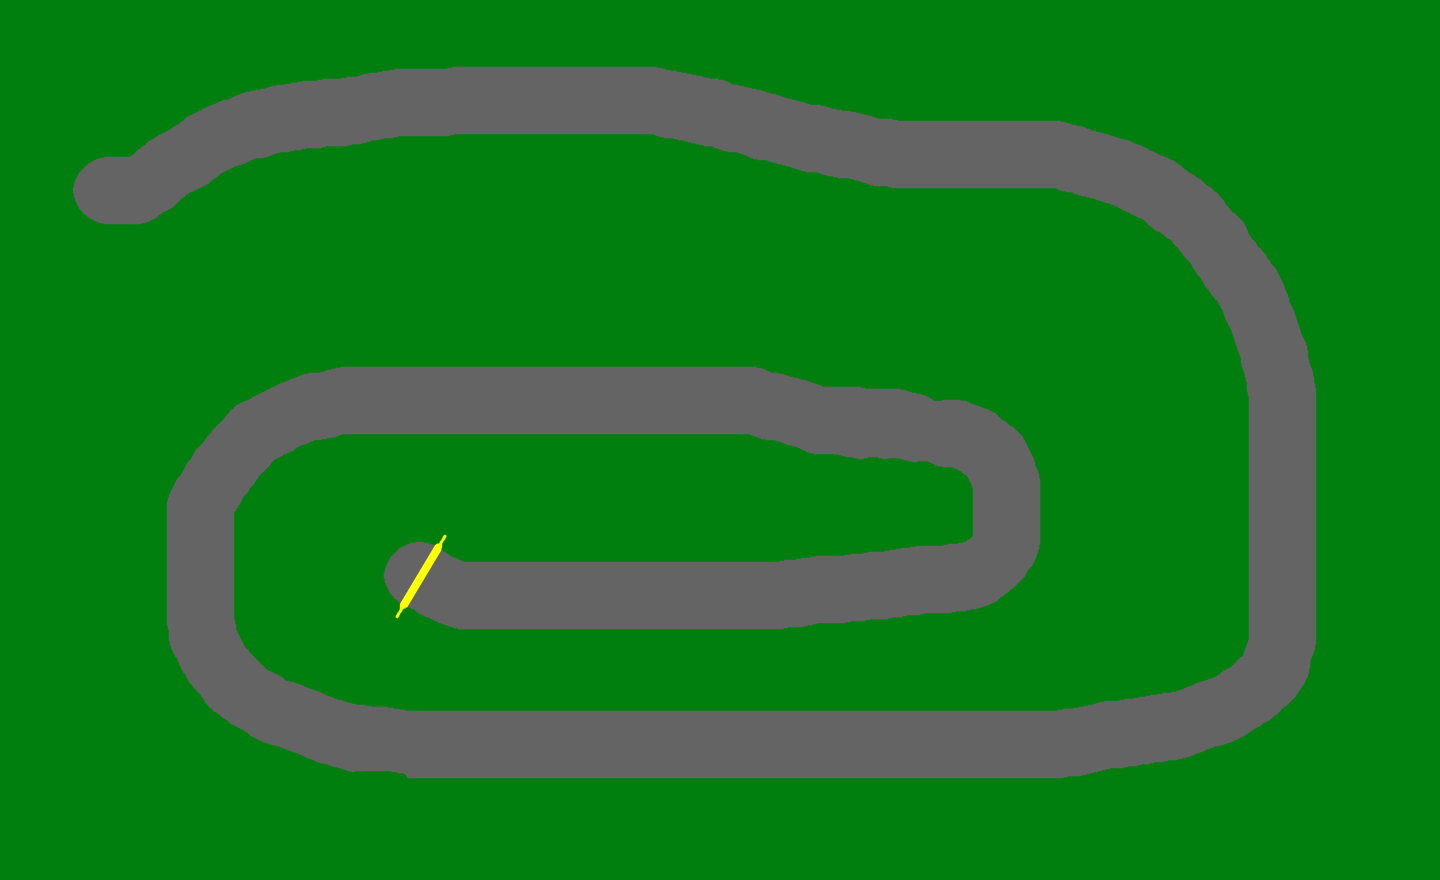
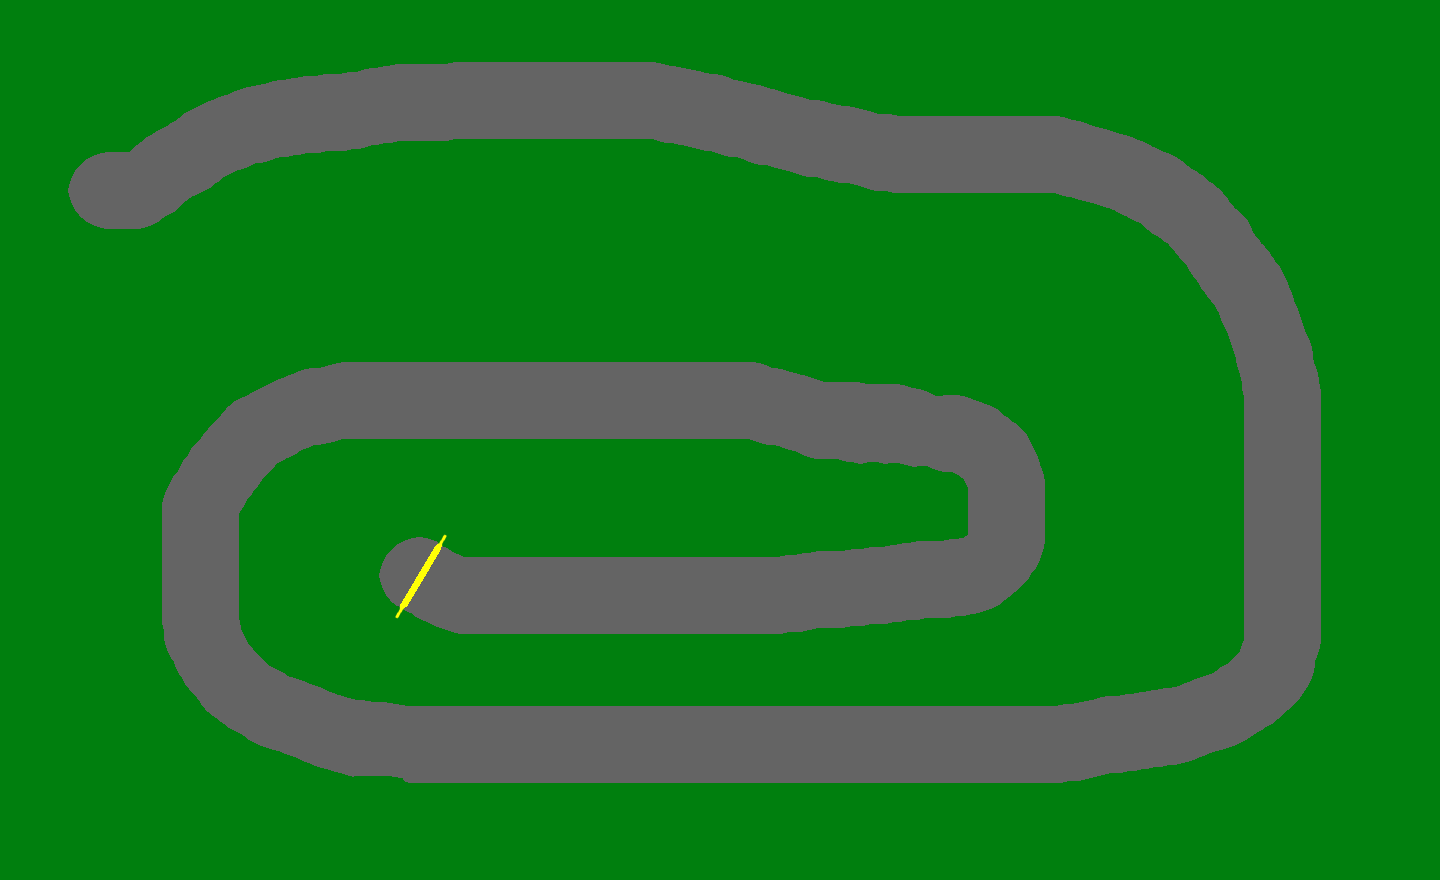
KI-Autos fuer CarRace: Variation, Kollisionen, Ueberholen, Aufholbonus
- ai.py: AIDriver mit Strassen-Fuehlern, zufaelliger Variation, Ueberholen und Kollisionsvermeidung (Fuehrender weicht weniger aus)
- car.py/main_myrace.py: Kollisionserkennung zwischen allen Autos, Umfaerbung der KI-Autos, Aufholbonus fuers Tempolimit
- track_1.png: Strasse um ca. 15 % verbreitert

diff --git a/CarRace/ai.py b/CarRace/ai.py
@@ -1,0 +1,170 @@
+"""Eine sehr einfache KI, die ein Auto steuert.
+
+Die KI "sieht" mit drei Fühlern (links, geradeaus, rechts) wie weit die Strasse vor dem Auto noch frei ist:
+- Lenken: zur Seite mit mehr freier Strasse.
+- Tempo: je weniger geradeaus frei ist, desto langsamer das Wunschtempo (Gas bzw. Bremse bis dahin).
+
+Sie bedient das Auto genau wie ein Mensch über `delta_speed` und `delta_view_angle`.
+"""
+import math
+import random
+
+import constant
+
+SENSOR_ANGLE = 40     # Winkel der seitlichen Fühler in Grad
+SENSOR_RANGE = 150    # Reichweite der Fühler in Pixeln
+SENSOR_STEP = 4       # Schrittgrösse beim Abtasten
+STEER_TOLERANCE = 8   # Unterschied links/rechts, ab dem gelenkt wird
+MISTAKE_CHANCE = 0.002  # Wahrscheinlichkeit pro Bild für einen Fahrfehler
+CAR_BRAKE_DISTANCE = 28  # Näher als das hinter einem Auto: nicht schneller als dieses fahren
+OVERTAKE_RANGE = 80    # Ein langsameres Auto so weit voraus (in Pixeln) löst ein Überholmanöver aus
+OVERTAKE_LANE = 20     # Seitlicher Abstand, bis zu dem ein Auto als "direkt voraus" gilt
+OVERTAKE_PUSH = 40     # Wie stark zur Überholseite gelenkt wird (wirkt wie lane_bias)
+OVERTAKE_HOLD = 20     # Bilder, die das Manöver nach dem letzten Sichtkontakt noch anhält
+AVOID_RANGE = 48       # Abstand der Autos (Mitte zu Mitte), ab dem seitlich ausgewichen wird
+AVOID_PUSH = 60        # Stärke des Ausweichens (wirkt wie lane_bias, wird mit der Vorsicht multipliziert)
+WALL_MARGIN = 40       # Näher als das an der Strassenkante wird nicht mehr in diese Richtung ausgewichen
+LEADER_CAUTION = 0.4   # Vorsicht des Führenden im Verhältnis zu den anderen (weniger entschlossen)
+MIN_SPEED = 3         # Tempo, das auch in engen Kurven gefahren wird
+
+
+def _is_drivable(color):
+    return tuple(color) in (constant.COLOR_STREET, constant.COLOR_FINISH)
+
+
+class AIDriver:
+    """Steuert ein `Car`. Jeder Fahrer variiert leicht (zufällig bei der Erstellung und laufend), damit nicht alle
+    Autos identisch fahren:
+    - `boldness`: Grundtempo (1 = normal, kleiner = vorsichtiger)
+    - `lane_bias`: bevorzugte Seite der Strasse in Pixeln (negativ = links, positiv = rechts)
+    - Tempo- und Lenkrauschen sowie seltene kleine Fahrfehler
+    - `caution`: wie stark Kollisionen vermieden werden; der Führende weicht nur mit LEADER_CAUTION davon aus
+    Überholen: Ein Auto direkt voraus wird nicht abgebremst, sondern auf der Seite mit mehr Platz umfahren.
+    Die Fühler messen nur die Strasse; andere Autos in `obstacles` werden separat erkannt (Überholen, Abstand halten).
+    """
+
+    def __init__(self, car, boldness=1.0, sensor_angle=SENSOR_ANGLE, variation=1.0, obstacles=()):
+        self.car = car
+        self.obstacles = obstacles
+        self.variation = variation
+        self.boldness = boldness * random.uniform(1 - 0.08 * variation, 1 + 0.08 * variation)
+        self.sensor_angle = sensor_angle + random.uniform(-6, 6) * variation
+        self.lane_bias = random.uniform(-10, 10) * variation
+        self.caution = random.uniform(1 - 0.2 * variation, 1 + 0.2 * variation)
+        self.mistake_frames = 0   # Restdauer eines laufenden Fahrfehlers
+        self.mistake_steer = 0
+        self.overtake_side = 0    # -1 = links überholen, 1 = rechts, 0 = kein Manöver
+        self.overtake_frames = 0  # Restdauer des Manövers
+
+    def distance(self, track, offset):
+        """Freie Strecke in Pixeln in Richtung Blickwinkel + offset (Grad), gemessen auf dem Streckenbild."""
+        angle = math.radians(self.car.view_angle + offset)
+        cx = self.car.pos_x + constant.PLAYERWITH / 2
+        cy = self.car.pos_y + constant.PLAYERHIGH / 2
+        dist = 0
+        while dist < SENSOR_RANGE:
+            x = int(cx + math.cos(angle) * dist)
+            y = int(cy + math.sin(angle) * dist)
+            if not (0 <= x < track.get_width() and 0 <= y < track.get_height()):
+                break
+            if not _is_drivable(track.get_at((x, y))):
+                break
+            dist += SENSOR_STEP
+        return dist
+
+    def _car_ahead(self):
+        """Nächstes Auto direkt voraus als (Abstand nach vorn, seitlicher Versatz, Auto) oder None.
+        Seitlich positiv = rechts von uns."""
+        angle = math.radians(self.car.view_angle)
+        fx, fy = math.cos(angle), math.sin(angle)
+        best = None
+        for other in self.obstacles:
+            if other is self.car:
+                continue
+            dx = other.pos_x - self.car.pos_x
+            dy = other.pos_y - self.car.pos_y
+            forward = dx * fx + dy * fy
+            lateral = -dx * fy + dy * fx
+            if 0 < forward < OVERTAKE_RANGE and abs(lateral) < OVERTAKE_LANE:
+                if best is None or forward < best[0]:
+                    best = (forward, lateral, other)
+        return best
+
+    def _avoid_push(self, left, right):
+        """Seitliches Ausweichen vor Autos, die neben oder vor uns nahe sind (positiv = nach rechts lenken).
+
+        Der Führende weicht schwächer aus (LEADER_CAUTION), damit er seine Linie hält und nicht ausgebremst wird.
+        Zur Strassenkante hin wird nicht ausgewichen.
+        """
+        angle = math.radians(self.car.view_angle)
+        fx, fy = math.cos(angle), math.sin(angle)
+        leader = all(o.distance_driven <= self.car.distance_driven for o in self.obstacles if o is not self.car)
+        caution = self.caution * (LEADER_CAUTION if leader else 1)
+        push = 0
+        for other in self.obstacles:
+            if other is self.car:
+                continue
+            dx = other.pos_x - self.car.pos_x
+            dy = other.pos_y - self.car.pos_y
+            dist = math.hypot(dx, dy)
+            forward = dx * fx + dy * fy
+            lateral = -dx * fy + dy * fx
+            if dist >= AVOID_RANGE or forward < -constant.PLAYERHIGH or abs(lateral) < 4:
+                continue  # zu weit weg, hinter uns (der kümmert sich selbst) oder genau davor (Überholen)
+            closeness = (AVOID_RANGE - dist) / (AVOID_RANGE - constant.PLAYERWITH)
+            push -= (1 if lateral > 0 else -1) * min(1, closeness)
+        push *= AVOID_PUSH * caution
+        if (push > 0 and right < WALL_MARGIN) or (push < 0 and left < WALL_MARGIN):
+            push = 0
+        return push
+
+    def drive(self, track):
+        """Entscheidet für dieses Bild über Gas/Bremse und Lenkung. `track` ist das Bild der aktuellen Strecke."""
+        left = self.distance(track, -self.sensor_angle)
+        front = self.distance(track, 0)
+        right = self.distance(track, self.sensor_angle)
+
+        # Überholen: Auto direkt voraus -> auf der Seite mit mehr Platz (und weg vom Auto) vorbeifahren
+        ahead = self._car_ahead()
+        if ahead:
+            if self.overtake_frames == 0:
+                forward, lateral, _ = ahead
+                side = -1 if lateral > 4 else 1 if lateral < -4 else (1 if right >= left else -1)
+                room = right if side == 1 else left
+                if room < OVERTAKE_RANGE / 2:  # auf dieser Seite zu eng: andere Seite
+                    side = -side
+                self.overtake_side = side
+            self.overtake_frames = OVERTAKE_HOLD
+        elif self.overtake_frames > 0:
+            self.overtake_frames -= 1
+        if self.overtake_frames == 0:
+            self.overtake_side = 0
+
+        # Lenken: Richtung mit mehr Platz (lane_bias verschiebt die Wunschspur)
+        diff = right - left + self.lane_bias + self.overtake_side * OVERTAKE_PUSH + self._avoid_push(left, right)
+        if diff > STEER_TOLERANCE:
+            self.car.delta_view_angle = constant.STEERINGVALUE
+        elif diff < -STEER_TOLERANCE:
+            self.car.delta_view_angle = -constant.STEERINGVALUE
+        else:
+            self.car.delta_view_angle = 0
+
+        # Seltener kleiner Fahrfehler: kurz in eine zufällige Richtung lenken
+        if self.mistake_frames > 0:
+            self.mistake_frames -= 1
+            self.car.delta_view_angle = self.mistake_steer
+        elif random.random() < MISTAKE_CHANCE * self.variation:
+            self.mistake_frames = random.randint(2, 4)
+            self.mistake_steer = random.choice((-1, 1)) * constant.STEERINGVALUE
+
+        # Tempo: Wunschtempo wächst mit der freien Strasse geradeaus (Autos zählen nicht), plus etwas Rauschen
+        target = (MIN_SPEED + (constant.MAXSPEED * self.car.topspeed_factor - MIN_SPEED) * front / SENSOR_RANGE) * self.boldness
+        target *= random.uniform(1 - 0.05 * self.variation, 1 + 0.05 * self.variation)
+        if ahead and ahead[0] < CAR_BRAKE_DISTANCE and abs(ahead[1]) < 12:
+            target = min(target, max(ahead[2].speed, 0))  # Auffahren vermeiden, solange noch kein Platz zum Vorbeifahren
+        if front == 0 and left == 0 and right == 0:
+            target = 0  # keine Strasse in Sicht (z. B. Streckenende): anhalten
+        if self.car.speed > target:
+            self.car.delta_speed = -constant.ACCELERATIONVALUE
+        else:
+            self.car.delta_speed = constant.ACCELERATIONVALUE

diff --git a/CarRace/car.py b/CarRace/car.py
@@ -3,6 +3,18 @@ import constant
 import math
 import pygame
 
+def recolor(image, color):
+    """Färbt die bunten Pixel des Autobildes in `color` um; Helligkeit, Schwarz/Weiss und Transparenz bleiben."""
+    image = image.copy()
+    for x in range(image.get_width()):
+        for y in range(image.get_height()):
+            r, g, b, a = image.get_at((x, y))
+            if a and max(r, g, b) - min(r, g, b) > 60:
+                shade = max(r, g, b) / 255
+                image.set_at((x, y), (int(color[0] * shade), int(color[1] * shade), int(color[2] * shade), a))
+    return image
+
+
 class Car:
     """Ein Auto mit Position, Geschwindigkeit und Fahrtrichtung.
 
@@ -16,16 +28,22 @@ class Car:
     view_angle = 0
     delta_view_angle = 0
     name = ""
+    distance_driven = 0  # Gesamte gefahrene Strecke in Pixeln (Mass für die Rennposition)
+    topspeed_factor = 1  # Aufholbonus aufs Tempolimit (1 = normal)
     activeMalusFactor = 1  # 1 = normaler Boden, kleiner als 1 = Strafe (Tempolimit sinkt)
 
-    def __init__(self, name, image):
-        """Erstellt das Auto am Startpunkt. `image` ist der Dateiname des Autobildes."""
+    def __init__(self, name, image, color=None):
+        """Erstellt das Auto am Startpunkt. `image` ist der Dateiname des Autobildes, `color` (R, G, B) färbt es um."""
         self.speed = 0
         self.view_angle = 0
         self.pos_x = constant.STARTPOSX
         self.pos_y = constant.STARTPOSY
         self.name = name
         self.carImage = pygame.image.load(image)
+        if color:
+            self.carImage = recolor(self.carImage, color)
+        self.distance_driven = 0
+        self.topspeed_factor = 1
         self.delta_speed = 0
         self.delta_view_angle = 0
         self.activeMalusFactor = 1
@@ -37,11 +55,14 @@ class Car:
         self.view_angle = 0
         self.pos_x = constant.STARTPOSX
         self.pos_y = constant.STARTPOSY
+        self.distance_driven = 0
+        self.topspeed_factor = 1
         pass
 
     def update(self):
         """Berechnet die neue Geschwindigkeit, Richtung und Position für das nächste Bild."""
         self.speed += self.delta_speed
+        self.distance_driven += self.speed
 
         self.speedLimiter()
 
@@ -53,10 +74,14 @@ class Car:
         self.pos_y += round(math.sin(math.radians(self.view_angle)) * self.speed)
         pass
 
+    def topspeed_limit(self):
+        """Aktuelles Tempolimit vorwärts: Höchstgeschwindigkeit mal Boden-Malus mal Aufholbonus."""
+        return constant.MAXSPEED * self.activeMalusFactor * self.topspeed_factor
+
     def speedLimiter(self):
         """Begrenzt die Geschwindigkeit auf das Tempolimit vorwärts bzw. rückwärts (inkl. Malus)."""
-        if self.speed > (constant.MAXSPEED * float(self.activeMalusFactor)):
-            self.speed = (constant.MAXSPEED * float(self.activeMalusFactor))
+        if self.speed > self.topspeed_limit():
+            self.speed = self.topspeed_limit()
         if self.speed < (constant.MAXSPEED_REVERSE * -1 * self.activeMalusFactor):
             self.speed = (constant.MAXSPEED_REVERSE * -1 * self.activeMalusFactor)
 
@@ -101,3 +126,47 @@ class Car:
         pass
 
 
+
+def center(car):
+    """Mittelpunkt des Autos (x, y) in Pixeln."""
+    return (car.pos_x + constant.PLAYERWITH / 2, car.pos_y + constant.PLAYERHIGH / 2)
+
+
+def resolve_collision(a, b):
+    """Prüft, ob sich die Autos a und b berühren (Kreise mit Durchmesser = Autogrösse).
+
+    Bei einer Berührung werden sie auseinandergeschoben und beide verlieren Tempo.
+    Gibt den Kollisionspunkt (x, y) zurück, sonst None.
+    """
+    ax, ay = center(a)
+    bx, by = center(b)
+    dx, dy = bx - ax, by - ay
+    dist = math.hypot(dx, dy)
+    min_dist = constant.PLAYERWITH
+    if dist >= min_dist:
+        return None
+    if dist == 0:  # exakt übereinander: beliebige Richtung wählen
+        dx, dy, dist = 1.0, 0.0, 1.0
+    push = (min_dist - dist) / 2 + 1
+    a.pos_x -= dx / dist * push
+    a.pos_y -= dy / dist * push
+    b.pos_x += dx / dist * push
+    b.pos_y += dy / dist * push
+    a.speed *= constant.COLLISION_SPEED_FACTOR
+    b.speed *= constant.COLLISION_SPEED_FACTOR
+    return ((ax + bx) / 2, (ay + by) / 2)
+
+
+def update_catchup(cars, fps):
+    """Aufholbonus: Autos weit hinter dem Führenden dürfen schneller fahren als normal.
+
+    Der Bonus steigt sofort mit dem Rückstand, sinkt aber höchstens über CATCHUP_DECAY_SECONDS wieder auf normal
+    (z. B. nachdem das Auto überholt hat).
+    """
+    leader = max(c.distance_driven for c in cars)
+    decay = constant.CATCHUP_MAX_BOOST / (constant.CATCHUP_DECAY_SECONDS * fps)
+    for c in cars:
+        gap = leader - c.distance_driven
+        part = (gap - constant.CATCHUP_MIN_GAP) / (constant.CATCHUP_FULL_GAP - constant.CATCHUP_MIN_GAP)
+        target = 1 + constant.CATCHUP_MAX_BOOST * min(1, max(0, part))
+        c.topspeed_factor = max(target, c.topspeed_factor - decay)

diff --git a/CarRace/main_myrace.py b/CarRace/main_myrace.py
@@ -18,6 +18,7 @@ from pygame.locals import *
 
 import constant
 import car
+import ai
 
 pygame.init()
 
@@ -34,6 +35,21 @@ fenster.fill(bg)
 # Das Auto des Spielers; weitere Autos könnten in `playerlist` ergänzt werden
 humanplayer = car.Car("Player", "car_2.png")
 playerlist = [humanplayer]
+
+# KI-Autos: jedes bekommt einen AIDriver, der es steuert (Parameter für unterschiedliches Fahrverhalten)
+aidrivers = []
+START_DELAY = 40  # Bilder Abstand, mit denen die KI-Autos nacheinander losfahren (alle starten am selben Punkt)
+waiting = {}      # Auto -> noch zu wartende Bilder bis zum Start
+# Name, Fahrstil und Farbe (der Spieler ist rot; Grün/Gelb/Grau sind Wiese, Ziellinie und Strasse)
+for n, (ai_name, boldness, color) in enumerate([("AI vorsichtig", 0.8, (0, 110, 255)),
+                                                ("AI mutig", 1.0, (180, 60, 230)),
+                                                ("AI normal", 0.9, (0, 220, 220))], start=1):
+    ai_car = car.Car(ai_name, "car_1.png", color)
+    playerlist.append(ai_car)
+    aidrivers.append(ai.AIDriver(ai_car, boldness=boldness, obstacles=playerlist))
+    waiting[ai_car] = n * START_DELAY
+
+explosions = []   # [x, y, verbleibende Bilder] der sichtbaren Zusammenstösse
 
 # Alle vorhandenen Strecken track_1.png, track_2.png, ... laden
 tracks = []
@@ -88,6 +104,9 @@ while running:
 
                 for player in playerlist:
                     player.reset()
+                for n, driver in enumerate(aidrivers, start=1):
+                    waiting[driver.car] = n * START_DELAY
+                explosions.clear()
 
             # Taste gedrückt: Gas, Bremse bzw. Lenkung einschalten
             if event.key == K_UP:
@@ -113,11 +132,37 @@ while running:
     # Rennstrecke rendern
     fenster.blit(tracks[activeTrackNumber], (0, 0))
 
+    # KI-Fahrer entscheiden anhand der Strecke, bevor die Autos bewegt werden
+    for driver in aidrivers:
+        if waiting[driver.car] == 0:
+            driver.drive(tracks[activeTrackNumber])
+
     # Alle Player updaten. Die Strecke muss angezeigt werden, damit je nach Boden ein Malus berechnet wird.
+    # Noch wartende KI-Autos stehen am Start (ohne Kollision, damit sie nicht festkleben).
+    car.update_catchup([p for p in playerlist if waiting.get(p, 0) == 0], fps)
     for player in playerlist:
+        if waiting.get(player, 0) > 0:
+            waiting[player] -= 1
+            continue
         player.setmalus(getmalus(player.pos_x, player.pos_y))
         player.update()
+
+    # Zusammenstösse zwischen allen Autopaaren erkennen
+    active = [p for p in playerlist if waiting.get(p, 0) == 0]
+    for i, first in enumerate(active):
+        for second in active[i + 1:]:
+            hit = car.resolve_collision(first, second)
+            if hit:
+                explosions.append([hit[0], hit[1], 10])
+
+    for player in playerlist:
         fenster.blit(player.getimage(), player.getPosAsRect())
+
+    # Explosionsbild kurz am Kollisionspunkt anzeigen
+    for boom in explosions:
+        fenster.blit(explosion, explosion.get_rect(center=(boom[0], boom[1])))
+        boom[2] -= 1
+    explosions[:] = [b for b in explosions if b[2] > 0]
 
     pygame.display.update()
 

diff --git a/CarRace/constant.py b/CarRace/constant.py
@@ -13,6 +13,14 @@ MAXSPEED = 10          # Höchstgeschwindigkeit vorwärts
 MAXSPEED_REVERSE = 5   # Höchstgeschwindigkeit rückwärts
 MALUSFACTOR = 0.3      # Faktor auf die Höchstgeschwindigkeit, wenn das Auto neben der Strasse fährt
 
+COLLISION_SPEED_FACTOR = 0.4  # Beide Autos behalten bei einem Zusammenstoss diesen Anteil ihres Tempos
+
+# Aufholjagd: Autos weit hinter dem Führenden bekommen ein höheres Tempolimit
+CATCHUP_MAX_BOOST = 0.5     # Zusätzliches Tempolimit (0.5 = bis zu 50 % schneller)
+CATCHUP_MIN_GAP = 40        # Rückstand in Pixeln, ab dem der Bonus beginnt
+CATCHUP_FULL_GAP = 300      # Rückstand in Pixeln, ab dem der volle Bonus gilt
+CATCHUP_DECAY_SECONDS = 1.5 # So lange sinkt der Bonus auf 0, wenn das Auto nicht mehr hinten liegt
+
 MAXANGLE = 4 / 8  # Maximaler Lenkwinkel (im Code aktuell nicht verwendet)
 
 # Startposition des Autos auf der Strecke
